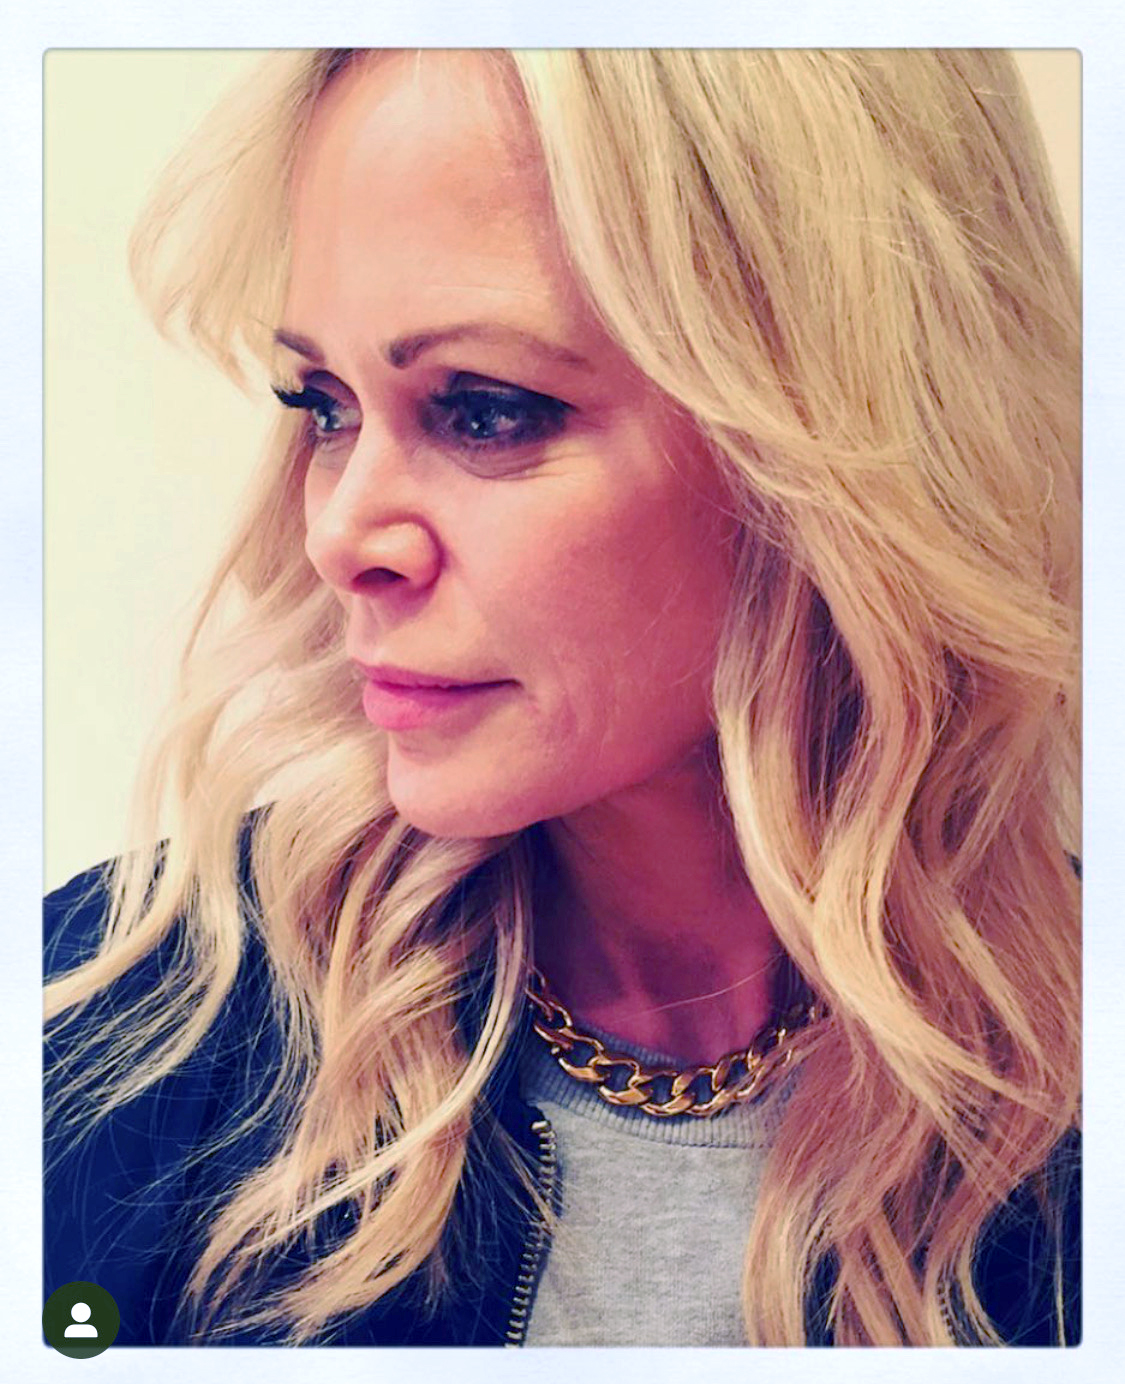
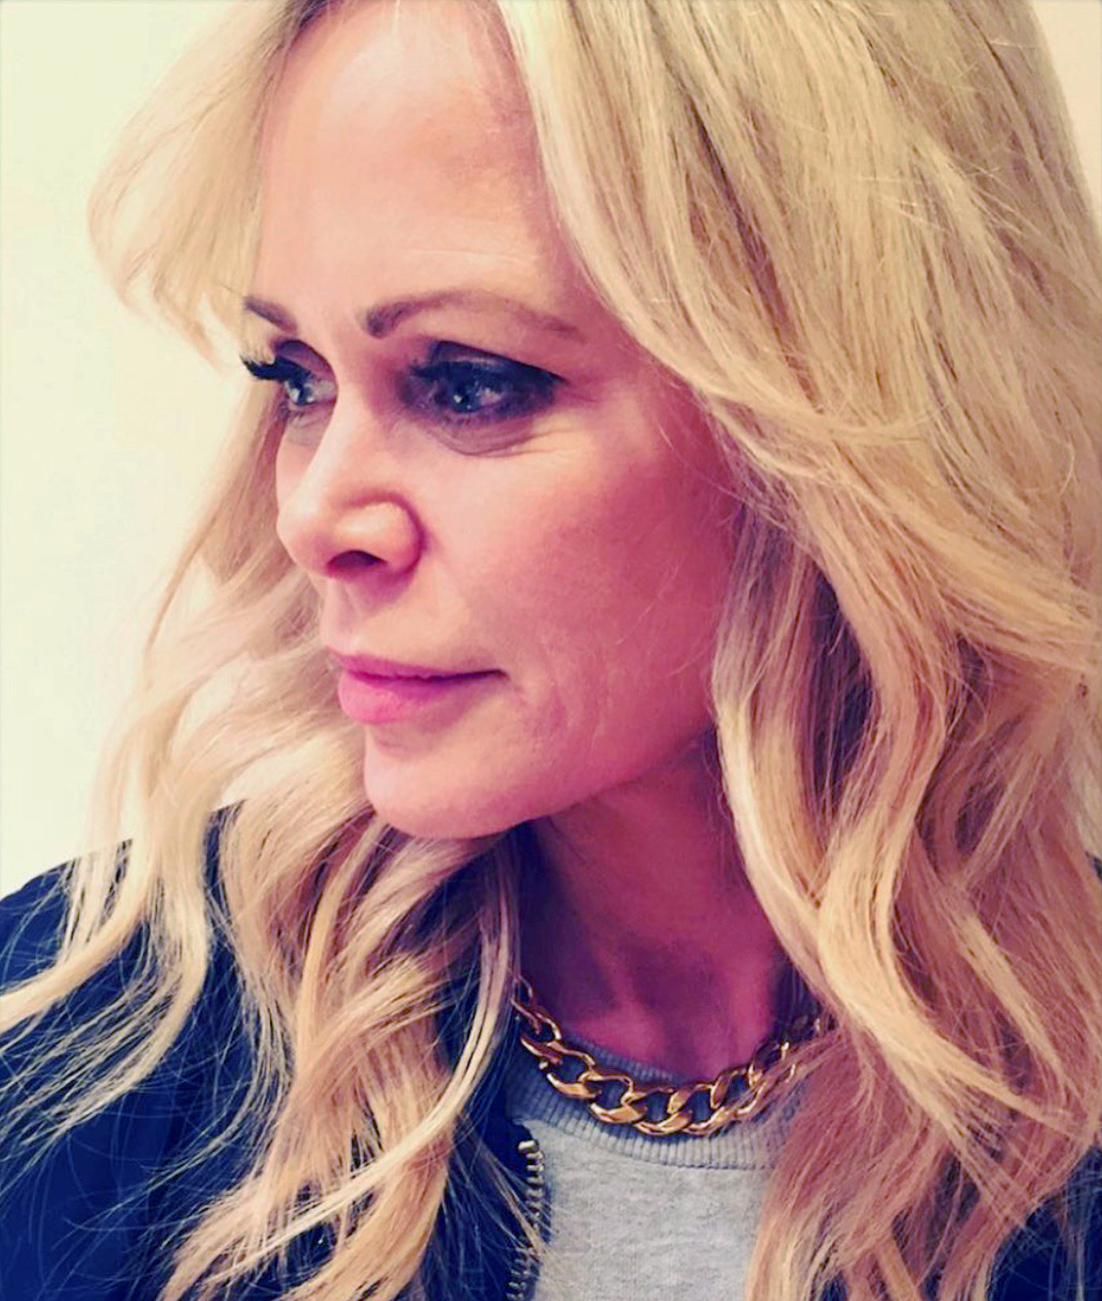
added pictures and mainpage navcards

diff --git a/index.html b/index.html
@@ -36,7 +36,7 @@
             <p class="browsehappy">You are using an <strong>outdated</strong> browser. Please <a href="#">upgrade your browser</a> to improve your experience.</p>
         <![endif]-->
         <nav class="navbar navbar-expand-lg navbar-dark bg-dark" >
-            <a class="navbar-brand ml-4" id="brandtext" href="./index.html"><img src="./images/LS-logo.png" class="navLogo"><b class="ml-3">Lisa Scheffler Style</b></a>
+            <a class="navbar-brand ml-4" href="./index.html"><img src="./images/LS-logo.png" class="navLogo"><b class="ml-3" id="brandtext">Lisa Scheffler Style</b></a>
             <button class="navbar-toggler" type="button" data-toggle="collapse" data-target="#navbarNav" aria-controls="navbarNav" aria-expanded="false" aria-label="Toggle navigation">
               <span class="navbar-toggler-icon"></span>
             </button>
@@ -78,11 +78,11 @@
         </nav>
         
         <div class="row">
-          <div class="col-8 mx-auto mt-5">
-            <a href="./microblade.html"><img src="https://scontent-sea1-1.cdninstagram.com/v/t51.2885-15/e35/s1080x1080/115909212_601024967448305_4280785293564160318_n.jpg?_nc_ht=scontent-sea1-1.cdninstagram.com&_nc_cat=105&_nc_ohc=Ny3zYYtPtZMAX8kRLiF&tp=1&oh=bdad564523331316e5b867c27f8da149&oe=6035AED6" class="img-fluid rounded"></a>
+          <div class="col-4 mx-auto mt-5">
+            <a href="./microblade.html"><img id="mainPage" src="./images/Hair_Lashes_brows.jpg" class="img-fluid rounded"></a>
           </div>
         </div>
-        <div class="row mt-5">
+        <div class="row mt-5 navCard">
           <div class="col-9 mx-auto text-center">
             <h1>Lisa Scheffler is the premier microblade, hair, and lashes artist in Seattle</h1>
           </div>
@@ -92,7 +92,47 @@
                 <h2>Specializing in eyebrows, eyelashes, and hair design, Lisa's services can transform your look and increase your confidence.</h2>
             </div>
         </div>
+        <!-- Nav Cards -->
+        <div class="row mt-5">
+          <div class="col-3 mx-auto">
+              <div class="card ml-5 navCard">
+                <a href="./microblade.html"><img class="card-img-top img-responsive" src="./images/brows/brow_main.jpeg" alt="microblade booking">
+                  <div class="card-body">
+                    <h4 class="card-title text-center"><b class="navCardText">Microblading</b></h4>
+                    <p class="card-text text-center"></p>
+                  </div>
+                  <div class="card-body text-center">
+                      <button class="lilButton ml-2" type="button">Go Now!</button></a>
+                  </div>
+              </div>
+          </div>
 
+          <div class="col-3 mx-auto">
+              <div class="card ml-5 navCard">
+                <a href="./hair.html"><img class="card-img-top img-responsive" src="./images/hair/hair_main_lori.jpg" alt="Card image cap">
+                  <div class="card-body">
+                    <h4 class="card-title text-center"><b class="navCardText">Hair</b></h4>
+                    <p class="card-text text-center"></p>
+                  </div>
+                  <div class="card-body text-center">
+                      <button class="lilButton ml-2" type="button">Go Now!</button></a>
+                  </div>
+              </div>
+          </div>
+
+          <div class="col-3 mx-auto">
+              <div class="card ml-5">
+                <a href="./lashes.html"><img class="card-img-top img-responsive" src="./images/lashes/lashes.png" alt="Card image cap">
+                  <div class="card-body">
+                    <h4 class="card-title text-center"><b class="navCardText">Eyelash Extensions</b></h4>
+                    <p class="card-text text-center"></p>
+                  </div>
+                  <div class="card-body text-center">
+                      <button class="lilButton ml-2" type="button">Go Now!</button></a>
+                  </div>
+              </div>
+          </div>
+        </div>
 
                <!--***** Social Media Footer *****-->
 
@@ -135,3 +175,5 @@
  
     </body>
 </html>
+
+<!--https://scontent-sea1-1.cdninstagram.com/v/t51.2885-15/e35/s1080x1080/115909212_601024967448305_4280785293564160318_n.jpg?_nc_ht=scontent-sea1-1.cdninstagram.com&_nc_cat=105&_nc_ohc=Ny3zYYtPtZMAX8kRLiF&tp=1&oh=bdad564523331316e5b867c27f8da149&oe=6035AED6-->

diff --git a/lashes.html b/lashes.html
@@ -80,12 +80,12 @@
 
         <div class="row">
             
-            <div class="col-4 mx-auto">
+            <div class="col d-flex justify-content-center mx-auto">
                 <img class="lash-main" src="./images/lashes/lashes.png" alt="Eyelash Extensions lashes" class="img-fluid mt-5">
             </div>
            
         </div>
-        <div class="row mt-5 ml-3">
+        <div class="row mt-5">
             <div class="col-6 mx-auto text-center mt-5">
                 <h2>Lisa will customize the lash volume, length, and curl to you. From natural to dramatic, your lashes will let you wakeup feeling your red carpet best every day!</h2>
             </div>
@@ -96,35 +96,31 @@
 
 
         <div class="row mt-5">
-            <div class="col-1">
-            </div>
          
-            <div class="col-3 mx-auto">
-                <div class="card ml-5"">
+            <div class="col mx-auto d-flex justify-content-center">
+                <div class="card mr-4">
                     <img class="card-img-top" src="./images/lashes/lashes_flash_5.JPG" alt="lashes or eyelash extensions booking">
                     <div class="card-body">
                       <h5 class="card-title text-center"><b>Eyelash Extension Full Set</b><br>$175</h5>
                       <p class="card-text text-center">For first time clients or clients who have not had a fill in 4 weeks.</p>
                     </div>
                     <div class="card-body text-center">
-                        <a href="#" target="_blank"><button class="lilButton ml-2" type="button">Book Now!</button></a>
+                        <a href="#"><button class="lilButton ml-2" type="button" id="lashButton2">Book Now!</button></a>
                     </div>
                 </div>
-            </div>
-            <div class="col-4 mx-auto">
+            
                 <div class="card ml-5">
                     <img class="card-img-top" src="./images/lashes/lashes_flash_after_1.JPG" alt="lashes or eyelash extensions booking">
                     <div class="card-body">
                       <h5 class="card-title text-center"><b>Eyelash Extension Fill</b><br>$80</h5>
-                      <p class="card-text text-center" id="lashText">To maintain a beautiful, full set of lashes, fills should be done every 2-3 weeks. Past 3 weeks is considered a full set.<br>FOR EXISTING CLIENTS ONLY</p>
+                      <p class="card-text text-center" id="lashText">To maintain a beautiful, full set of lashes, fills should be done every 2-3 weeks. Past 3 weeks is considered a full set.<br>For existing clients only.</p>
                     </div>
                     <div class="card-body text-center" id="lashButton">
-                        <a href="#" target="_blank"><button class="lilButton ml-2" type="button">Book Now!</button></a>
+                        <a href="#"><button class="lilButton ml-2" type="button">Book Now!</button></a>
                     </div>
                 </div>
             </div>
-            <div class="col-1">
-            </div>
+            
     
         </div>
         

diff --git a/style/style.css b/style/style.css
@@ -152,28 +152,21 @@ body {
 }
 
 #brandtext{
+    text-shadow: .15rem .1rem .12rem black;
     letter-spacing: .18rem;
     color: rgb(255, 43, 13);
     font-family: 'Abril';
-    font-size: 2.2rem;
+    font-size: 3.3rem;
     position: relative;
     font-weight: 400;
+    transition: all 0.2;
+    -webkit-transition: all 0.2;
+    -moz-transition: all 0.2;
+    -ms-transition: all 0.2;
+    -o-transition: all 0.2;
 }
-
-.navbar b {
-    font-weight: 300;
-    font-size: 2.8rem;
-    text-shadow: .15rem .1rem .12rem black;
-    transition: all .22s ease-in-out;
-    -webkit-transition: all .22s ease-in-out;
-    -moz-transition: all .22s ease-in-out;
-    -ms-transition: all .22s ease-in-out;
-    -o-transition: all .22s ease-in-out;
-}
-
-.navbar b:all {
-    color:rgb(224, 142, 150);
-    text-shadow: .15rem .15rem .3rem black;
+#brandtext a:hover {
+    text-shadow: .3rem .3rem .4rem #FFFFAC;
 }
 
 .nav-item {
@@ -283,6 +276,9 @@ a:hover {
 #lashText {
     margin-top: -1rem;
 }
+.card-title {
+    margin-top: -.6rem;
+}
 .card-text {
     font-size: 1.3rem;
     margin-bottom: -1rem;
@@ -305,6 +301,7 @@ a:hover {
 .card {
     height: 40rem;
     width: 23rem;
+    min-width: 23rem;
     border-radius: 1.5rem;
     -webkit-border-radius: 1.5rem;
     -moz-border-radius: 1.5rem;
@@ -348,11 +345,14 @@ contactImage {
 }
 
 #lisaImage {
-    background-size: 100%;
+    margin-bottom: -.2rem;    
     height: auto;
     width: auto;
-}
 
+}
+#mainPage {
+    box-shadow: .5rem .4rem .6rem #000000;
+}
 
 /*================================  Button =================================    */
 
@@ -445,9 +445,14 @@ contactImage {
 .lilButton:focus {
     outline: none;
 }
-#lashButton{
-    margin-top: -2rem;
+#lashButton2 {
+    position: relative;
+    top: 1rem;
 }
+#lashButton{
+    margin-top: -3rem;
+}
+
 /* ================= Social Media =================*/
 
 .social {

diff --git a/hair.html b/hair.html
@@ -93,7 +93,7 @@
         <div class="row mt-5">
 
 
-            <div class="col-3 mx-auto">
+            <div class="col d-flex justify-content-around mx-auto">
                 <div class="card ml-5 noImageCard">
                     <div class="card-body">
                         <h5 class="card-title text-center"><b>Women's Blowout</b><br><br>$75</h5>
@@ -103,10 +103,10 @@
                         <a href="./contact.html" target="_blank"><button class="lilButton ml-2" type="button">Book Now!</button></a>
                     </div>
                 </div>
-            </div>
+            
 
-            <div class="col-3 mx-auto">
-                <div class="card ml-5 imageCard">
+            
+                <div class="card ml-3 imageCard">
                     <img class="card-img-top" id="lisaImage" src="./images/hair/hair_main_lori.jpg" alt="women's haircut female hair cut woman">
                     <div class="card-body">
                         <h5 class="card-title text-center"><b>Women's Haircut</b><br><br>$120</h5>
@@ -116,10 +116,10 @@
                         <a href="./contact.html" target="_blank"><button class="lilButton ml-2" type="button">Book Now!</button></a>
                     </div>
                 </div>
-            </div>
+            
 
-            <div class="col- mx-auto">
-                <div class="card ml-5 noImageCard">
+            
+                <div class="card ml-3 noImageCard">
                     <div class="card-body">
                         <h5 class="card-title text-center"><b>Brazilian Blowout</b><br><br>$350</h5>
                         <p class="card-text text-center">Brazilian Blowout improves the condition of the hair by creating a protective protein layer around the hair shaft to eliminate frizz and smooth the cuticle.</p>

diff --git a/bio.html b/bio.html
@@ -83,14 +83,22 @@
 
         <div class="row">
             <div class="col-5 mx-auto">
-                <img src="./images/bio_pic_1.jpg" alt="Lisa Scheffler sitting in her chair" class="img-fluid mt-5 pageImage">
+                <img src="./images/lisa_bio_main.jpg" alt="Lisa Scheffler sitting in her chair" class="img-fluid mt-5 pageImage">
             </div>
         </div>
         <div class="row mt-5">
             <div class="col-5 mx-auto text-center mt-5">
-                <h2>The epic of Lisa Scheffler as written by Kandra</h2>
+                <p>My passion is simply to make people feel beautiful. My dedication started over 25 years ago learning The French Cutting and Styling Technique. I have expanded my devotion of beauty to hair and lash extensions. Seeing my clients respond with absolute joy from such an effortless transformation inspired me to pursue the art of Microblading.</p>
+                  <h4>“An instant facelift” with no downtime!</h4>
+                  
+                  <p>My other passions include spending time with my wife and chickens in our garden. I also enjoy interior design, running, hot yoga and getting Torch’d. </p>
             </div>
         </div>
+        <div class="row">
+          <div class="col-5 mx-auto">
+              <img src="./images/bio_pic_1.jpg" alt="Lisa Scheffler sitting in her chair" class="img-fluid mt-5 pageImage">
+          </div>
+      </div>
         
 
                    <!--***** Social Media Footer *****-->
